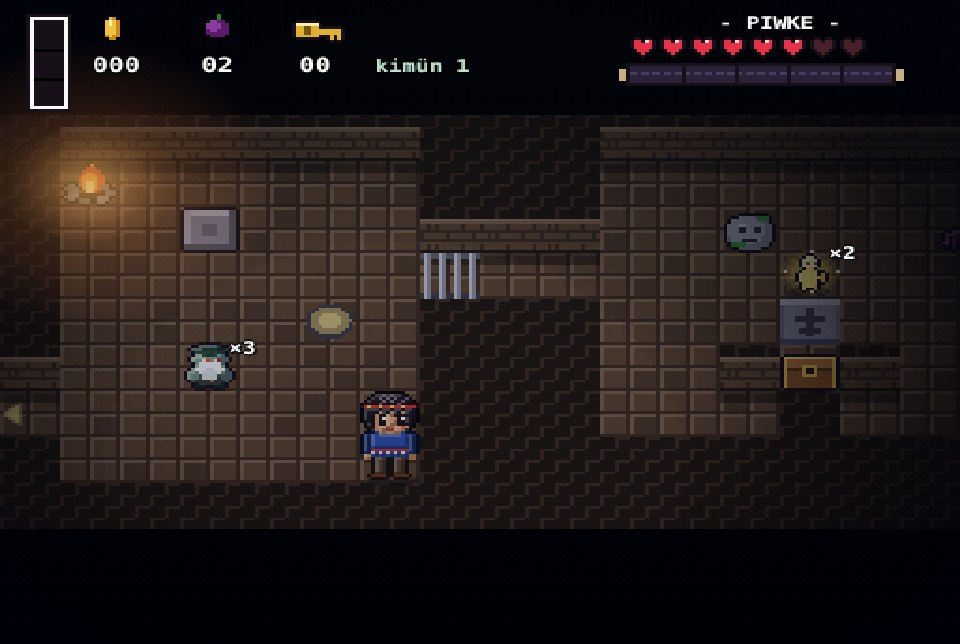
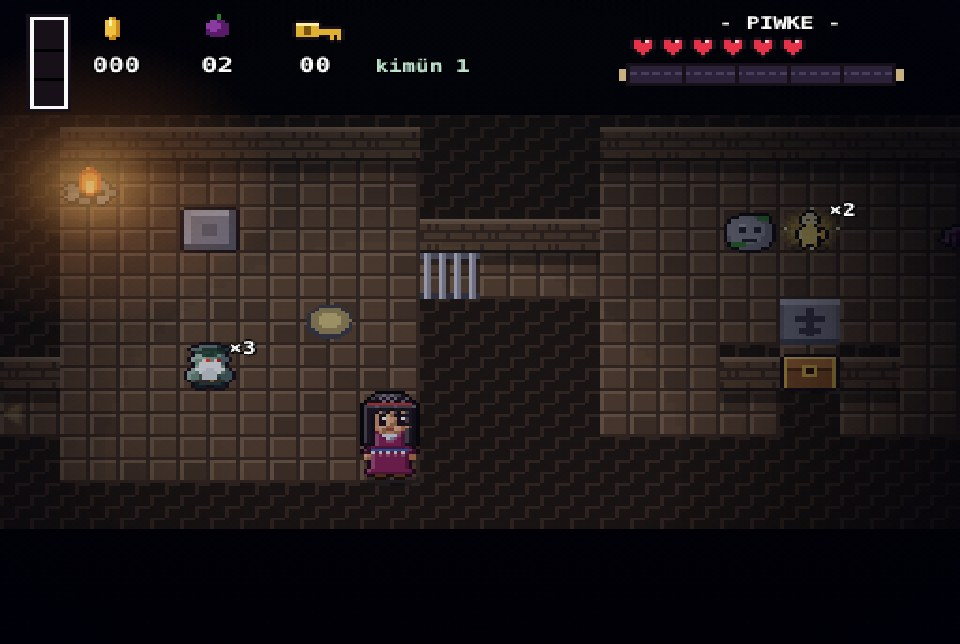
Millaray first: selection screen order and default, promo page order and Millaray gameplay shots
Claude-Session: https://claude.ai/code/session_01HTUZe9QnhKfmVdpEdFr6Jn

diff --git a/acerca/index.html b/acerca/index.html
@@ -130,7 +130,7 @@ footer{padding-block:28px 40px;color:var(--muted);font-size:.9rem;display:flex;f
     <div class="copy">
       <p class="eyebrow"><span class="es">Un RPG para aprender mapudungun</span><span class="en">An RPG for learning Mapudungun</span></p>
       <h1 id="t">Kewün <span>ñi Newen</span></h1>
-      <p class="lead"><span class="es">«La fuerza de la lengua.» Un RPG gratuito al estilo de los clásicos de 16 bits, con una regla que lo cambia todo: aquí el poder es la lengua. No hay espada ni hechizos; cada golpe es un verbo en mapudungun bien conjugado. El olvido avanza por el Wallmapu, y Llanka, o Millaray, sale a despertar a los ngen con lo único que puede vencerlo: la palabra. En español y en inglés, en el teléfono y sin conexión.</span><span class="en">“The strength of the language.” A free RPG in the style of the 16-bit classics, with one rule that changes everything: here, the language is the power. There is no sword and there are no spells; every blow is a well-conjugated Mapudungun verb. Forgetting is creeping across Wallmapu, and Llanka, or Millaray, sets out to wake the ngen with the only thing that can defeat it: the word. In Spanish and English, on your phone, and offline.</span></p>
+      <p class="lead"><span class="es">«La fuerza de la lengua.» Un RPG gratuito al estilo de los clásicos de 16 bits, con una regla que lo cambia todo: aquí el poder es la lengua. No hay espada ni hechizos; cada golpe es un verbo en mapudungun bien conjugado. El olvido avanza por el Wallmapu, y Millaray, o Llanka, sale a despertar a los ngen con lo único que puede vencerlo: la palabra. En español y en inglés, en el teléfono y sin conexión.</span><span class="en">“The strength of the language.” A free RPG in the style of the 16-bit classics, with one rule that changes everything: here, the language is the power. There is no sword and there are no spells; every blow is a well-conjugated Mapudungun verb. Forgetting is creeping across Wallmapu, and Millaray, or Llanka, sets out to wake the ngen with the only thing that can defeat it: the word. In Spanish and English, on your phone, and offline.</span></p>
       <div class="cta">
         <a class="btn" href="https://brogers36.github.io/Kewun-ni-Newen/" target="_blank" rel="noopener"><span class="es">Jugar ahora</span><span class="en">Play now</span></a>
         <a class="btn ghost" href="#instalar"><span class="es">Instalar en el teléfono</span><span class="en">Install on your phone</span></a>
@@ -145,7 +145,7 @@ footer{padding-block:28px 40px;color:var(--muted);font-size:.9rem;display:flex;f
         <span><b>52</b><span class="es">melodías originales</span><span class="en">original tunes</span></span>
       </div>
     </div>
-    <div class="shot"><img src="img/battle.jpg" alt="Batalla contra un chonchon y un laftrache en la costa: el menú pide armar una orden en mapudungun" width="960" height="644"></div>
+    <div class="shot"><img src="img/battle.jpg" alt="Millaray en batalla contra un chonchon y un laftrache en la costa: el menú pide armar una orden en mapudungun" width="960" height="644"></div>
   </section>
   </main>
 </div>
@@ -167,7 +167,7 @@ footer{padding-block:28px 40px;color:var(--muted);font-size:.9rem;display:flex;f
 
     <div style="margin-top:clamp(40px,6vw,64px)">
       <div class="feat">
-        <div class="shot"><img src="img/title.jpg" alt="Pantalla de inicio: Llanka y Millaray frente al mar, bajo el volcán" width="1024" height="896" loading="lazy"></div>
+        <div class="shot"><img src="img/title.jpg" alt="Pantalla de inicio: Millaray y Llanka frente al mar, bajo el volcán" width="1024" height="896" loading="lazy"></div>
         <div class="copy">
           <h3><span class="es">Órdenes que se arman, no que se aprietan</span><span class="en">Orders you build, not buttons you press</span></h3>
           <p class="muted"><span class="es">En cada combate eliges una raíz verbal y la conjugas: la terminación decide a quién va la orden (a uno, a dos o a todos) y <span class="mapu">-kil-</span> la vuelve negativa. <span class="mapu">Amutunge</span>, «¡vete!», espanta a un enemigo; <span class="mapu">amutukilmün</span>, «¡no se vayan!», es otra historia. El juego enseña trece raíces, y cada jefe exige usarlas con cabeza.</span><span class="en">In every battle you pick a verb root and conjugate it: the ending decides who the order goes to (one, two or everyone), and <span class="mapu">-kil-</span> makes it negative. <span class="mapu">Amutunge</span>, “go away!”, drives an enemy off; <span class="mapu">amutukilmün</span>, “don't you all leave!”, is a different story. The game teaches thirteen roots, and every boss makes you use them wisely.</span></p>
@@ -190,7 +190,7 @@ footer{padding-block:28px 40px;color:var(--muted);font-size:.9rem;display:flex;f
       </div>
 
       <div class="feat">
-        <div class="shot"><img src="img/lof.jpg" alt="Un lof lafkenche con ruka, cancha de palin y gente conversando en mapudungun" width="960" height="644" loading="lazy"></div>
+        <div class="shot"><img src="img/lof.jpg" alt="Millaray en un lof lafkenche con ruka, cancha de palin y gente conversando en mapudungun" width="960" height="644" loading="lazy"></div>
         <div class="copy">
           <h3><span class="es">Pueblos vivos, konew y mini misiones</span><span class="en">Living villages, konew and side quests</span></h3>
           <p class="muted"><span class="es">En los lof la gente juega al palin, teje en el witral, cocina y estudia; el pentukuwün con el lonko se hace como corresponde. Hay dieciocho konew (adivinanzas) que terminan con «Chem am ta tatey?», tiendas donde se responde en mapudungun, y secretos que premian con gramática nueva que después sirve en combate.</span><span class="en">In the lof people play palin, weave at the witral, cook and study; the pentukuwün with the lonko is done properly. There are eighteen konew (riddles) ending in “Chem am ta tatey?”, shops answered in Mapudungun, and secrets that reward you with new grammar you then use in battle.</span></p>
@@ -198,7 +198,7 @@ footer{padding-block:28px 40px;color:var(--muted);font-size:.9rem;display:flex;f
       </div>
 
       <div class="feat">
-        <div class="shot"><img src="img/dungeon.jpg" alt="Una caverna con antorchas, piedras para empujar y puertas con reja" width="960" height="644" loading="lazy"></div>
+        <div class="shot"><img src="img/dungeon.jpg" alt="Millaray explora una caverna con antorchas, piedras para empujar y puertas con reja" width="960" height="644" loading="lazy"></div>
         <div class="copy">
           <h3><span class="es">Cavernas, puzzles y minijefes</span><span class="en">Dungeons, puzzles and minibosses</span></h3>
           <p class="muted"><span class="es">Cada región tiene su caverna, y ninguna se parece a otra: piedras que se empujan y se devuelven, acertijos de mapudungun que se resuelven pensando (la chillka de conjugación ayuda, pero no regala la respuesta), minijefes y un kütral donde recuperar fuerzas.</span><span class="en">Every region has its dungeon, and no two are alike: stones you push and pull back, Mapudungun puzzles you solve by thinking (the conjugation chillka helps, but gives nothing away), minibosses, and a kütral to recover your strength.</span></p>

diff --git a/www/index.html b/www/index.html
@@ -82,8 +82,8 @@ html,body{margin:0;height:100%;background:#0d0b10;color:#f4ecd8;font-family:ui-m
         <h1>Kewün ñi Newen</h1>
         <div class="sub">Prototipo · Lafkenche, Nagche, Pewenche y Williche</div>
         <div class="row">
-          <button class="hero on" id="hL"><canvas width="32" height="48"></canvas><span>Llanka</span></button>
-          <button class="hero" id="hM"><canvas width="32" height="48"></canvas><span>Millaray</span></button>
+          <button class="hero on" id="hM"><canvas width="32" height="48"></canvas><span>Millaray</span></button>
+          <button class="hero" id="hL"><canvas width="32" height="48"></canvas><span>Llanka</span></button>
         </div>
         <div class="row">
           <button id="bNew">Llitun · Nuevo juego</button>
@@ -123,7 +123,7 @@ const LO=document.createElement('canvas');LO.width=LW;LO.height=LH;const lx=LO.g
 const $=id=>document.getElementById(id);
 const CT=true;
 const SAVE_KEY='ngen_ni_dungun_lafkenche_v2'+(window.KEWUN_MASTER?'_maestro':''),MUTE_KEY='ngen_ni_dungun_mute';
-let LANG='es',S=null,mode='title',frame=0,active=null,grace=0,fade=0,HERO='llanka';
+let LANG='es',S=null,mode='title',frame=0,active=null,grace=0,fade=0,HERO='millaray';
 const rnd=n=>Math.floor(Math.random()*n);
 const esc=s=>String(s).replace(/[&<>"]/g,c=>({'&':'&amp;','<':'&lt;','>':'&gt;','"':'&quot;'}[c]));
 function G(o){if(!o)return'';const l=S?S.gloss:LANG;return o[l]!==undefined?o[l]:(o.es||'')}

diff --git a/src/head.html b/src/head.html
@@ -82,8 +82,8 @@ html,body{margin:0;height:100%;background:#0d0b10;color:#f4ecd8;font-family:ui-m
         <h1>Kewün ñi Newen</h1>
         <div class="sub">Prototipo · Lafkenche, Nagche, Pewenche y Williche</div>
         <div class="row">
-          <button class="hero on" id="hL"><canvas width="32" height="48"></canvas><span>Llanka</span></button>
-          <button class="hero" id="hM"><canvas width="32" height="48"></canvas><span>Millaray</span></button>
+          <button class="hero on" id="hM"><canvas width="32" height="48"></canvas><span>Millaray</span></button>
+          <button class="hero" id="hL"><canvas width="32" height="48"></canvas><span>Llanka</span></button>
         </div>
         <div class="row">
           <button id="bNew">Llitun · Nuevo juego</button>

diff --git a/src/core1.js b/src/core1.js
@@ -7,7 +7,7 @@ const LO=document.createElement('canvas');LO.width=LW;LO.height=LH;const lx=LO.g
 const $=id=>document.getElementById(id);
 const CT=true;
 const SAVE_KEY='ngen_ni_dungun_lafkenche_v2'+(window.KEWUN_MASTER?'_maestro':''),MUTE_KEY='ngen_ni_dungun_mute';
-let LANG='es',S=null,mode='title',frame=0,active=null,grace=0,fade=0,HERO='llanka';
+let LANG='es',S=null,mode='title',frame=0,active=null,grace=0,fade=0,HERO='millaray';
 const rnd=n=>Math.floor(Math.random()*n);
 const esc=s=>String(s).replace(/[&<>"]/g,c=>({'&':'&amp;','<':'&lt;','>':'&gt;','"':'&quot;'}[c]));
 function G(o){if(!o)return'';const l=S?S.gloss:LANG;return o[l]!==undefined?o[l]:(o.es||'')}
